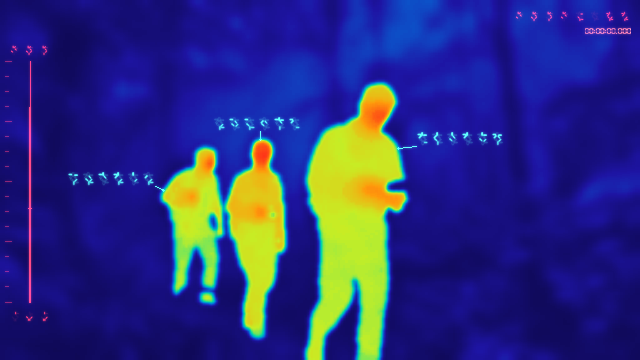
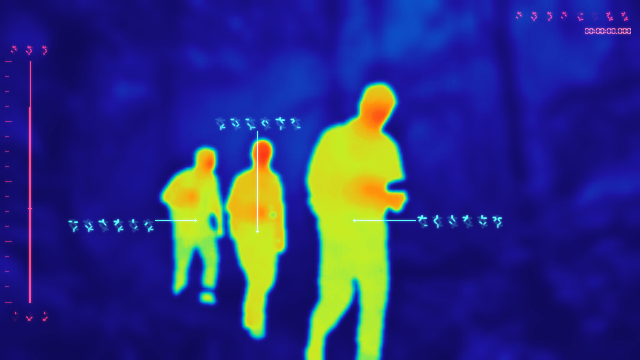
Stabilize HUD callout leaders around tracked silhouette centers

diff --git a/src/yautja/render.py b/src/yautja/render.py
@@ -272,6 +272,9 @@ class Renderer:
         # Alpha draws black ink over the image; screen blending would erase it.
         self.overlay_mode = 'RGBA' if self.hud_theme == 'custom' or self.hud_colors['waveform'] == (0, 0, 0) else 'RGB'
         self.annotation_positions = {}
+        self.annotation_centers = {}
+        self.annotation_time = None
+        self.annotation_shot = None
         if self.thermal != 'classic':
             from .thermal import LowDetailHeatField, CinematicHeatField, SurfaceHeatField, VeryDetailedHeatField
             field = {'low-detail': LowDetailHeatField, 'cinematic': CinematicHeatField, 'detailed': SurfaceHeatField,
@@ -388,8 +391,14 @@ class Renderer:
         deck = sorted(self.annotation_pool, key=lambda symbol: hashlib.sha256(salt + str(symbol).encode('ascii')).digest())
         return tuple(deck[row * 6:row * 6 + 6])
 
-    def annotation_layout(self, subjects):
-        """Place readable labels beside silhouettes with short boundary leaders."""
+    def annotation_layout(self, subjects, *, time=None, shot_id=None):
+        """Keep labels beside tracks and aim leaders at stable silhouette centers."""
+        dt = None if time is None or self.annotation_time is None else time - self.annotation_time
+        if shot_id != self.annotation_shot or (dt is not None and (dt <= 0 or dt > .5)):
+            self.annotation_positions = {}
+            self.annotation_centers = {}
+            dt = None
+        self.annotation_time, self.annotation_shot = time, shot_id
         s = self.scale
         left, top = round(116 * s), round(100 * s)
         right, bottom = self.width - round(18 * s), self.height - round(18 * s)
@@ -399,7 +408,9 @@ class Renderer:
         step = round(size * .85) + spacing
         label_w = step * 6 - spacing
         previous = self.annotation_positions
+        old_centers = self.annotation_centers
         self.annotation_positions = {}
+        self.annotation_centers = {}
         if size < 10 or label_w > right - left or size > bottom - top:
             return []
 
@@ -417,7 +428,22 @@ class Renderer:
             occupied |= np.asarray(Image.fromarray(mask).resize((grid_w, grid_h), Image.Resampling.NEAREST))
             sx, sy = self.width / mask.shape[1], self.height / mask.shape[0]
             bounds = (cols.min() * sx, rows.min() * sy, (cols.max() + 1) * sx, (rows.max() + 1) * sy)
-            center = (float(cols.mean()) * sx, float(rows.mean()) * sy)
+            center = np.array(((float(cols.mean()) + .5) * sx, (float(rows.mean()) + .5) * sy))
+            if dt is not None and subject.track_id in old_centers:
+                old_center = np.asarray(old_centers[subject.track_id])
+                # Dampen mask noise in seconds, independently of frame rate.
+                # Bound lag so fast motion cannot leave the pointer behind.
+                offset = (old_center - center) * math.exp(-dt / .10)
+                limit = max(2 * s, .08 * min(bounds[2] - bounds[0], bounds[3] - bounds[1]))
+                offset *= min(1., limit / max(1e-6, float(np.linalg.norm(offset))))
+                center += offset
+            self.annotation_centers[subject.track_id] = tuple(center)
+            mx, my = int(center[0] / sx), int(center[1] / sy)
+            if not (0 <= my < mask.shape[0] and 0 <= mx < mask.shape[1] and mask[my, mx]):
+                # Concave, clipped, or partly occluded masks can have a centroid
+                # outside the figure. Use its nearest visible pixel in that case.
+                nearest = np.argmin(((cols + .5) * sx - center[0]) ** 2 + ((rows + .5) * sy - center[1]) ** 2)
+                center = np.array(((cols[nearest] + .5) * sx, (rows[nearest] + .5) * sy))
             edge = mask.copy()
             edge[1:-1, 1:-1] &= ~(mask[:-2, 1:-1] & mask[2:, 1:-1] & mask[1:-1, :-2] & mask[1:-1, 2:])
             ey, ex = np.nonzero(edge)
@@ -439,8 +465,9 @@ class Renderer:
                 predicted = (px + cx - old_cx, py + cy - old_cy)
                 candidates.insert(0, predicted)
             best = None
-            for x, y in candidates:
-                x, y = round(np.clip(x, left, right - label_w)), round(np.clip(y, top, bottom - size))
+            for index, (x, y) in enumerate(candidates):
+                position = (float(np.clip(x, left, right - label_w)), float(np.clip(y, top, bottom - size)))
+                x, y = map(round, position)
                 rect = (x, y, x + label_w, y + size)
                 if any(x < other['rect'][2] + gap / 2 and x + label_w > other['rect'][0] - gap / 2
                        and y < other['rect'][3] + gap / 2 and y + size > other['rect'][1] - gap / 2 for other in placed):
@@ -457,27 +484,35 @@ class Renderer:
                 length_sq = float(distances[nearest])
                 if length_sq > min(72 * s, self.width * .08) ** 2:
                     continue
-                score = length_sq + .15 * (y + size / 2 - preferred_y) ** 2
+                target = (cx, cy)
+                anchor = tuple(np.clip(target, (x, y), (x + label_w, y + size)))
+                score = float(np.sum((np.asarray(anchor) - target) ** 2)) + .15 * (y + size / 2 - preferred_y) ** 2
                 if predicted is not None:
                     score += .3 * ((x - predicted[0]) ** 2 + (y - predicted[1]) ** 2)
                 if best is None or score < best[0]:
-                    best = (score, rect, tuple(points[nearest]), tuple(anchors[nearest]))
+                    best = (score, rect, target, anchor, position)
+                # A valid tracked placement wins even if another candidate gets
+                # slightly shorter as the silhouette changes shape.
+                if predicted is not None and index == 0:
+                    break
             if best is None:
                 continue
-            _, rect, target, anchor = best
-            self.annotation_positions[subject.track_id] = (*rect[:2], cx, cy)
+            _, rect, target, anchor, position = best
+            # Preserve fractional motion; rounding the history can make labels
+            # stick or drift at high frame rates and slow camera pans.
+            self.annotation_positions[subject.track_id] = (*position, cx, cy)
             placed.append(dict(subject=subject, rect=rect, target=target, anchor=anchor, size=size, step=step))
             if len(placed) == 8:
                 break
         return placed
 
-    def annotate(self, image, subjects):
+    def annotate(self, image, subjects, *, time=None, shot_id=None):
         s = self.scale
         panel = self.hud_panel(image.size, 'leaders', 'markers', 'callouts')
         leaders = ImageDraw.Draw(panel.layer('leaders'))
         markers = ImageDraw.Draw(panel.layer('markers'))
         layer = panel.layer('callouts')
-        for item in self.annotation_layout(subjects):
+        for item in self.annotation_layout(subjects, time=time, shot_id=shot_id):
             subject, size, step = item['subject'], item['size'], item['step']
             x, y = item['rect'][:2]
             cx, cy = item['target']
@@ -540,7 +575,7 @@ class Renderer:
         image = highlight_glow(image, readout_luma, self.heat_glow, time, self.heat_glow_speed, self.seed,
                                dark=self.colors.palette[-1].mean() < self.colors.palette[0].mean())
         if self.hud:
-            self.draw_hud(image, readout_luma, time, wave, subjects)
+            self.draw_hud(image, readout_luma, time, wave, subjects, shot_id=shot_id)
             colors = (self.hud_colors['target'], self.hud_colors['target-flash'])
             image = self.target_overlay.draw(image, time, targets, colors, shot=shot_id, static=target_static)
         return self.display_effects(image, time, shot_id)
@@ -566,7 +601,7 @@ class Renderer:
         image = highlight_glow(image, u * 255, self.heat_glow, time, self.heat_glow_speed, self.seed,
                                dark=self.palette[-1].mean() < self.palette[0].mean())
         if self.hud:
-            self.draw_hud(image, luma, time, wave, subjects)
+            self.draw_hud(image, luma, time, wave, subjects, shot_id=shot_id)
             image = self.target_overlay.draw(image, time, targets,
                         (self.hud_colors['target'], self.hud_colors['target-flash']), shot=shot_id, static=target_static)
         return self.display_effects(image, time, shot_id)
@@ -634,7 +669,7 @@ class Renderer:
         self.composite_panel(image, panel, 0, 0)
         return size, stats
 
-    def draw_hud(self, image, readout_luma, time, wave=None, subjects=()):
+    def draw_hud(self, image, readout_luma, time, wave=None, subjects=(), *, shot_id=None):
         s = self.scale
         size, stats = self.draw_waveform(image, readout_luma, time, wave)
         # Top-right readout. Optional human timecode goes below the alien string.
@@ -663,7 +698,7 @@ class Renderer:
             panel.layer('timecode').paste(clock, (rw - clock.width, size + round(7 * s)))
         self.composite_panel(image, panel, max(0, self.width - rw - pad), pad)
         if self.verbose:
-            self.annotate(image, subjects)
+            self.annotate(image, subjects, time=time, shot_id=shot_id)
 
     def display_effects(self, image, time, shot_id=None):
         # Tape/CRT treatments affect the final display, including the HUD.

diff --git a/tests/test_thermal.py b/tests/test_thermal.py
@@ -137,7 +137,7 @@ class HeatTests(unittest.TestCase):
         np.testing.assert_array_equal(a[:, :50], plain[:, :50])
         np.testing.assert_array_equal(a[:45], plain[:45])
 
-    def test_large_callouts_stay_near_boundaries_without_covering_subjects(self):
+    def test_callout_labels_stay_clear_and_leaders_point_to_silhouette_centers(self):
         people = [subject(x=210, y=100, width=80, height=150, shape=(360, 640)),
                   subject(x=450, y=120, width=90, height=170, shape=(360, 640))]
         for track_id, person in enumerate(people, 1):
@@ -147,7 +147,8 @@ class HeatTests(unittest.TestCase):
         self.assertEqual(len(layout), 2)
         for item in layout:
             self.assertGreaterEqual(item['size'], 15)
-            self.assertLessEqual(np.linalg.norm(np.subtract(item['anchor'], item['target'])), 52)
+            rows, cols = np.nonzero(item['subject'].mask > .5)
+            np.testing.assert_allclose(item['target'], (cols.mean() + .5, rows.mean() + .5))
             x0, y0, x1, y1 = item['rect']
             self.assertGreaterEqual(x0, 65)
             self.assertGreaterEqual(y0, 50)
@@ -201,6 +202,60 @@ class HeatTests(unittest.TestCase):
         self.assertAlmostEqual(moved['rect'][1], first['rect'][1], delta=1)
         self.assertEqual(renderer.annotation_layout([]), [])
         self.assertEqual(renderer.annotation_positions, {})
+        self.assertEqual(renderer.annotation_centers, {})
+
+    def test_callout_centers_dampen_jitter_and_labels_keep_their_relative_position(self):
+        renderer = Renderer(640, 360, verbose=True)
+        raw, targets, offsets = [], [], []
+        for i in range(30):
+            one = subject(x=250 + (3 if i % 2 else -3), y=110, width=80, height=140, shape=(360, 640))
+            one.track_id = 7
+            item = renderer.annotation_layout([one], time=i / 30, shot_id=1)[0]
+            raw.append(np.nonzero(one.mask)[1].mean() + .5)
+            targets.append(item['target'][0])
+            offsets.append(np.subtract(item['rect'][:2], item['target']))
+        self.assertLess(np.std(targets[10:]), np.std(raw[10:]) * .3)
+        self.assertLess(np.ptp(np.asarray(offsets), axis=0).max(), 1.1)
+
+    def test_callout_smoothing_uses_time_and_limits_lag_during_fast_motion(self):
+        final = []
+        for fps in (12, 24, 60):
+            renderer = Renderer(640, 360, verbose=True)
+            one = subject(x=250, y=110, width=80, height=140, shape=(360, 640))
+            renderer.annotation_layout([one], time=0)
+            one.mask = np.roll(one.mask, 4, axis=1)
+            for i in range(1, fps // 2 + 1):
+                item = renderer.annotation_layout([one], time=i / fps)[0]
+            final.append(item['target'])
+        np.testing.assert_allclose(final, np.broadcast_to(final[0], (3, 2)), atol=1e-6)
+        for i in range(1, 6):
+            one.mask = np.roll(one.mask, 16, axis=1)
+            item = renderer.annotation_layout([one], time=.5 + i / 60)[0]
+            center = np.nonzero(one.mask)[1].mean() + .5
+            self.assertLessEqual(abs(item['target'][0] - center), 6.5)
+
+    def test_callout_history_resets_on_cuts_time_reversal_gaps_and_lost_tracks(self):
+        one = subject(x=250, y=110, width=80, height=140, shape=(360, 640))
+        one.track_id = 4
+        shifted = subject(x=254, y=110, width=80, height=140, shape=(360, 640))
+        shifted.track_id = 4
+        for time, shot in ((.12, 2), (.05, 1), (.1, 1), (1., 1)):
+            renderer = Renderer(640, 360, verbose=True)
+            renderer.annotation_layout([one], time=.1, shot_id=1)
+            actual = renderer.annotation_layout([shifted], time=time, shot_id=shot)[0]
+            expected = Renderer(640, 360, verbose=True).annotation_layout([shifted], time=time, shot_id=shot)[0]
+            self.assertEqual(actual['target'], expected['target'])
+            self.assertEqual(actual['rect'], expected['rect'])
+        renderer.annotation_layout([], time=1.1, shot_id=1)
+        self.assertEqual(renderer.annotation_centers, {})
+        self.assertEqual(renderer.annotation_positions, {})
+
+    def test_concave_subject_keeps_center_marker_on_visible_silhouette(self):
+        one = subject(x=240, y=100, width=120, height=160, shape=(360, 640))
+        one.mask[100:220, 260:340] = 0  # A U whose centroid lies in empty space.
+        item = Renderer(640, 360, verbose=True).annotation_layout([one])[0]
+        x, y = item['target']
+        self.assertTrue(one.mask[int(y), int(x)] > .5)
 
     def test_crowded_or_small_frames_never_force_labels_over_the_hud(self):
         for width, height in ((160, 90), (180, 320), (640, 360)):

diff --git a/skills/yautja/references/runtime.md b/skills/yautja/references/runtime.md
@@ -8,26 +8,26 @@ Use the [PyPI package](https://pypi.org/project/yautja/) with the compatible com
 
 Choose the first usable route:
 
-1. **pipx:** `pipx install "yautja>=2.4,<3"`, or `pipx install "yautja[semantic]>=2.4,<3"` for segmentation. Run `yautja --version` and `yautja --doctor`. Locate its Python with `pipx environment --value PIPX_LOCAL_VENVS`: under that directory use `yautja/bin/python` on Unix or `yautja/Scripts/python.exe` on Windows. Use this exact interpreter for any later extras or GPU setup; a different Python installs into a different environment. A dedicated venv is easier for a custom CUDA stack.
+1. **pipx:** `pipx install "yautja>=2.4.1,<3"`, or `pipx install "yautja[semantic]>=2.4.1,<3"` for segmentation. Run `yautja --version` and `yautja --doctor`. Locate its Python with `pipx environment --value PIPX_LOCAL_VENVS`: under that directory use `yautja/bin/python` on Unix or `yautja/Scripts/python.exe` on Windows. Use this exact interpreter for any later extras or GPU setup; a different Python installs into a different environment. A dedicated venv is easier for a custom CUDA stack.
 2. **Dedicated venv outside the skill:** create and use the environment below. All `python` examples thereafter mean its exact executable, or the activated environment.
-3. **User site:** `python -m pip install --user "yautja>=2.4,<3"` only when supported. Invoke `python -m yautja` using that same Python if the console script is not on PATH. If Python is externally managed (PEP 668), use route 2. Never use `--break-system-packages`.
+3. **User site:** `python -m pip install --user "yautja>=2.4.1,<3"` only when supported. Invoke `python -m yautja` using that same Python if the console script is not on PATH. If Python is externally managed (PEP 668), use route 2. Never use `--break-system-packages`.
 
 ```bash
 python -m venv .venv-yautja
 # macOS/Linux
-.venv-yautja/bin/python -m pip install "yautja>=2.4,<3"
+.venv-yautja/bin/python -m pip install "yautja>=2.4.1,<3"
 .venv-yautja/bin/python -m yautja --version
 .venv-yautja/bin/python -m yautja --doctor
 ```
 
 ```powershell
 # Windows, after creating the venv
-.venv-yautja\Scripts\python.exe -m pip install "yautja>=2.4,<3"
+.venv-yautja\Scripts\python.exe -m pip install "yautja>=2.4.1,<3"
 .venv-yautja\Scripts\python.exe -m yautja --version
 .venv-yautja\Scripts\python.exe -m yautja --doctor
 ```
 
-Confirm a stable version in `>=2.4,<3` before using this skill. `--doctor` reports the package version/location, exact Python, virtual-environment status, script directory, PATH membership, a conflicting CLI if found, and a `module_command` array for this interpreter. It reports observed environment facts; it does not infer pipx ownership from a path name. For image-only setup use `--doctor --media image` to skip video tool checks.
+Confirm a stable version in `>=2.4.1,<3` before using this skill. `--doctor` reports the package version/location, exact Python, virtual-environment status, script directory, PATH membership, a conflicting CLI if found, and a `module_command` array for this interpreter. It reports observed environment facts; it does not infer pipx ownership from a path name. For image-only setup use `--doctor --media image` to skip video tool checks.
 
 ## Offline install
 
@@ -43,16 +43,16 @@ Transfer the extracted bundle and complete wheelhouse. In a fresh target venv, f
 
 <!-- offline-install: tested from the extracted skill by tools.verify_install -->
 ```bash
-python -m pip install --no-index --no-cache-dir --find-links wheelhouse --find-links wheels "yautja>=2.4,<3"
+python -m pip install --no-index --no-cache-dir --find-links wheelhouse --find-links wheels "yautja>=2.4.1,<3"
 yautja --version
 yautja --doctor --media image
 ```
 
-Use `"yautja[semantic]>=2.4,<3"` in that install for a semantic wheelhouse. If a dependency is missing, stop and complete the wheelhouse on the connected computer; do not drop `--no-index`. Model use is independently offline: transfer the complete cache of the three pinned snapshots after an explicit connected `yautja --download-models`, then set `HF_HUB_OFFLINE=1` and `TRANSFORMERS_OFFLINE=1` and run `yautja --doctor --thermal cinematic`. These variables do not disable pip networking. For videos separately install FFmpeg/ffprobe and their system libraries before going offline.
+Use `"yautja[semantic]>=2.4.1,<3"` in that install for a semantic wheelhouse. If a dependency is missing, stop and complete the wheelhouse on the connected computer; do not drop `--no-index`. Model use is independently offline: transfer the complete cache of the three pinned snapshots after an explicit connected `yautja --download-models`, then set `HF_HUB_OFFLINE=1` and `TRANSFORMERS_OFFLINE=1` and run `yautja --doctor --thermal cinematic`. These variables do not disable pip networking. For videos separately install FFmpeg/ffprobe and their system libraries before going offline.
 
 ## Updates
 
-Use the original environment. For pipx use `pipx runpip yautja install --upgrade "yautja>=2.4,<3"` to keep the major-version bound (retain `[semantic]` when used), then verify the compatible major and diagnose again. For a venv/user install use its Python with `python -m pip install --upgrade "yautja>=2.4,<3"` (retain `[semantic]` when used). For a GitHub source installation, upgrade from the same source URL to follow development; check the resulting version before conversion. Update skill instructions separately with the original skill installer and restart the agent session. The 2.x CLI preserves existing flags; newly documented flags require raising the skill's minimum minor version or checking availability. No conversion automatically updates packages or the skill.
+Use the original environment. For pipx use `pipx runpip yautja install --upgrade "yautja>=2.4.1,<3"` to keep the major-version bound (retain `[semantic]` when used), then verify the compatible major and diagnose again. For a venv/user install use its Python with `python -m pip install --upgrade "yautja>=2.4.1,<3"` (retain `[semantic]` when used). For a GitHub source installation, upgrade from the same source URL to follow development; check the resulting version before conversion. Update skill instructions separately with the original skill installer and restart the agent session. The 2.x CLI preserves existing flags; newly documented flags require raising the skill's minimum minor version or checking availability. No conversion automatically updates packages or the skill.
 
 ## Video tools
 

diff --git a/skills/yautja/references/semantic.md b/skills/yautja/references/semantic.md
@@ -13,7 +13,7 @@ Very Detailed (`--thermal very-detailed`) uses Detailed's surface segmentation a
 Keep the lightweight environment if you only need classic mode. For semantic mode, install the `semantic` extra in the selected virtual environment. Use the same environment for the package and models:
 
 ```bash
-python -m pip install "yautja[semantic]>=2.4,<3"
+python -m pip install "yautja[semantic]>=2.4.1,<3"
 python -m yautja --download-models
 python -m yautja "clip.mov" "outputs/clip-semantic.mp4" --thermal semantic --verbose --timecode
 python -m yautja "photo.jpg" "outputs/photo-realistic.png" --thermal realistic --verbose
@@ -41,7 +41,7 @@ The historical comparison uses Python 3.11 with PyTorch 2.6.0/torchvision 0.21.0
 ```powershell
 python -m venv .venv-gpu
 .venv-gpu\Scripts\python.exe -m pip install torch==2.6.0 torchvision==0.21.0 --index-url https://download.pytorch.org/whl/cu124
-.venv-gpu\Scripts\python.exe -m pip install "yautja[semantic]>=2.4,<3"
+.venv-gpu\Scripts\python.exe -m pip install "yautja[semantic]>=2.4.1,<3"
 .venv-gpu\Scripts\python.exe -m yautja --doctor --thermal semantic --device cuda
 .venv-gpu\Scripts\python.exe -m yautja "clip.mov" "outputs/clip-cuda.mp4" --thermal semantic --device cuda --verbose --timecode
 ```
@@ -103,6 +103,6 @@ All display effects are independent of segmentation and palette, and default off
 
 The bundled checkpoint describes a SAM video configuration; Transformers may print a model-type warning when loading its compatible SAM image component. The pinned image inference path was verified on the demo clip.
 
-Verbose labels use six distinct decorative patterns built from the bundled broad, nine-segment geometry. Dim outlines preserve the complete shape, while selected segments receive shaded cyan highlights and the HUD's glow. A seeded shuffle assigns separate groups of patterns to consecutive track IDs, reducing repetition across nearby targets. Each track keeps its combination as it moves, independent of frame time or detection order; `--seed` changes the combinations. The symbols are fictional readouts, not a translation, literal numeric ID, or thermometer. Glyph rows sit beside each silhouette, with short connectors to its boundary. Labels follow track motion, reserve space for the main HUD, avoid subjects and other labels, and fade with lost tracks. Up to eight labels are shown; a label is omitted when there is no nearby clear space. Track IDs identify detections within a shot, not individual people; no face recognition is performed.
+Verbose labels use six distinct decorative patterns built from the bundled broad, nine-segment geometry. Dim outlines preserve the complete shape, while selected segments receive shaded cyan highlights and the HUD's glow. A seeded shuffle assigns separate groups of patterns to consecutive track IDs, reducing repetition across nearby targets. Each track keeps its combination as it moves, independent of frame time or detection order; `--seed` changes the combinations. The symbols are fictional readouts, not a translation, literal numeric ID, or thermometer. Glyph rows sit beside each silhouette, with connectors aimed at its smoothed center of area (an image-based approximation of center of mass). If that center falls outside a concave or partly occluded mask, the marker uses the nearest visible point. Labels retain their relative positions while clear, reserve space for the main HUD, avoid subjects and other labels, and fade with lost tracks. Time-based smoothing damps small mask changes with bounded lag during fast motion; cuts, reversed or repeated time, long frame gaps, and lost tracks reset its history. This stabilization is automatic in 2.4.1+. Up to eight labels are shown; a label is omitted when there is no nearby clear space. Track IDs identify detections within a shot, not individual people; no face recognition is performed.
 
 The JSON conversion report includes the selected mode, model revisions, device, detection-frame count, maximum concurrent subjects, and detected scene cuts. See [dependencies.md](dependencies.md) for licenses.

diff --git a/skills/yautja/SKILL.md b/skills/yautja/SKILL.md
@@ -7,11 +7,11 @@ description: Re-skin local images and videos with Yautja thermal-style silhouett
 
 Create thermal-imaging-style output for entertainment through sci-fi-styled segmentation, re-skinning, and annotation of images and video frames. Re-skinning colors are purely algorithmically generated, with some randomness from seeded variation and grain; do not present them as measured temperatures.
 
-Use the installed Yautja CLI. This skill contains instructions; pip installs the converter and its fixed character shapes. The compatible runtime range is `yautja>=2.4,<3`. Check the version, not just whether a command exists. Videos also require FFmpeg; conversion runs locally.
+Use the installed Yautja CLI. This skill contains instructions; pip installs the converter and its fixed character shapes. The compatible runtime range is `yautja>=2.4.1,<3`. Check the version, not just whether a command exists. Videos also require FFmpeg; conversion runs locally.
 
 ## Select one runtime
 
-Run `yautja --version`. If a compatible stable version is available, keep that installation. Otherwise read [runtime.md](references/runtime.md#install-one-runtime): use pipx if available, then a dedicated virtual environment outside the skill folder, then a user-site install only if supported. Install `yautja[semantic]>=2.4,<3` for the four segmented looks, or `yautja>=2.4,<3` for Classic. A base pipx install does not include segmentation.
+Run `yautja --version`. If a compatible stable version is available, keep that installation. Otherwise read [runtime.md](references/runtime.md#install-one-runtime): use pipx if available, then a dedicated virtual environment outside the skill folder, then a user-site install only if supported. Install `yautja[semantic]>=2.4.1,<3` for the four segmented looks, or `yautja>=2.4.1,<3` for Classic. A base pipx install does not include segmentation.
 
 Use the `yautja` package on PyPI or the matching wheel from a GitHub release; do not substitute a similarly named package. Source installs are described in the runtime guide.
 

diff --git a/README.md b/README.md
@@ -182,6 +182,8 @@ Use **`--no-hud`** for the thermal image alone. It removes the waveform, scale, 
 | [![Cinematic thermal output with the full HUD and annotations](https://raw.githubusercontent.com/petehottelet/yautja/main/assets/examples/style-cinematic.gif)](https://raw.githubusercontent.com/petehottelet/yautja/main/assets/examples/large/style-cinematic.gif) | [![Cinematic thermal output with every HUD overlay hidden](https://raw.githubusercontent.com/petehottelet/yautja/main/assets/examples/hud-off.gif)](https://raw.githubusercontent.com/petehottelet/yautja/main/assets/examples/large/hud-off.gif) |
 | Default HUD, with `--verbose --timecode` for annotations and clock | `--no-hud` |
 
+With `--verbose`, callout lines aim at a smoothed center of each visible silhouette—an image-based approximation of center of mass. Labels keep their position relative to the figure while that space remains clear, reducing jumps between moving arms and shoulders. If the center falls outside a concave or partly hidden silhouette, the marker uses the nearest visible point. This is automatic in 2.4.1+; no extra flag is needed.
+
 ```bash
 python -m yautja "clip.mov" "thermal-only.mp4" --thermal cinematic --no-hud
 python -m yautja "photo.jpg" "thermal-only.png" --palette green-phosphor --no-hud

diff --git a/CHANGELOG.md b/CHANGELOG.md
@@ -1,5 +1,11 @@
 # Changelog
 
+## 2.4.1 — 2026-09-13
+
+- Stabilize HUD callout leaders by aiming at each visible silhouette's smoothed center of area, with a nearby visible-point fallback for concave or occluded masks. Bound tracking lag during fast motion and reset history at cuts, time jumps, and track loss.
+- Retain clear label positions relative to their tracks instead of repeatedly choosing a new boundary point or marginally shorter placement. Preserve fractional motion so slow pans do not accumulate rounding drift.
+- Refresh the main and CRT example GIFs and document the updated default annotation behavior.
+
 ## 2.4.0 — 2026-09-13
 
 - Add optional CRT grid and 45-degree crosshatch patterns across the complete image and HUD, with shared strength control, independent disable flags, saved-preset support, and conversion reports. Keep both off by default.
